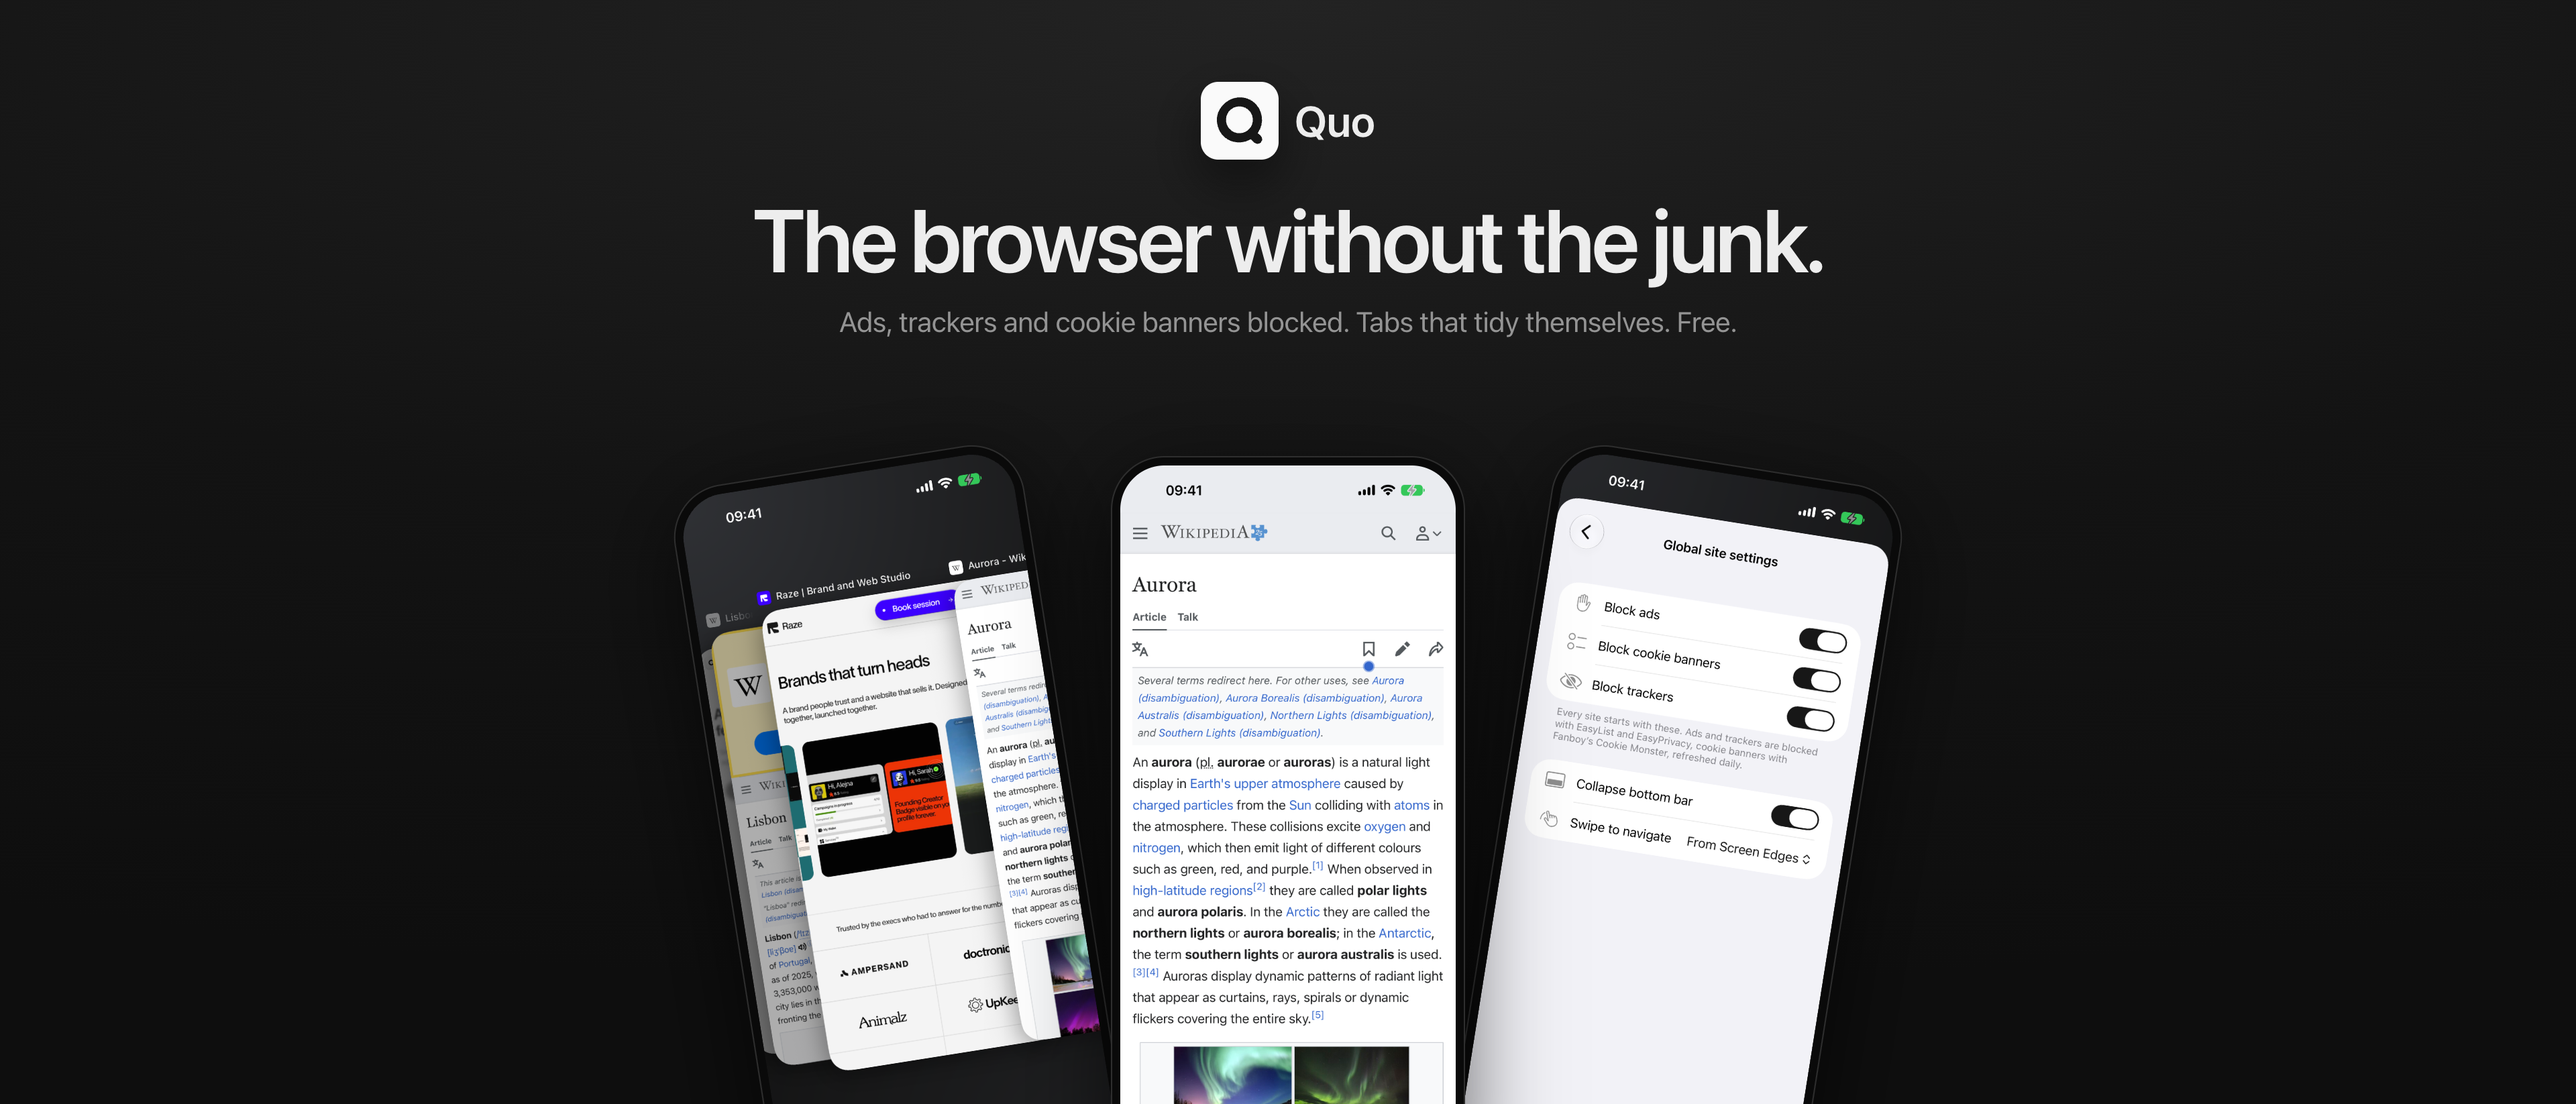
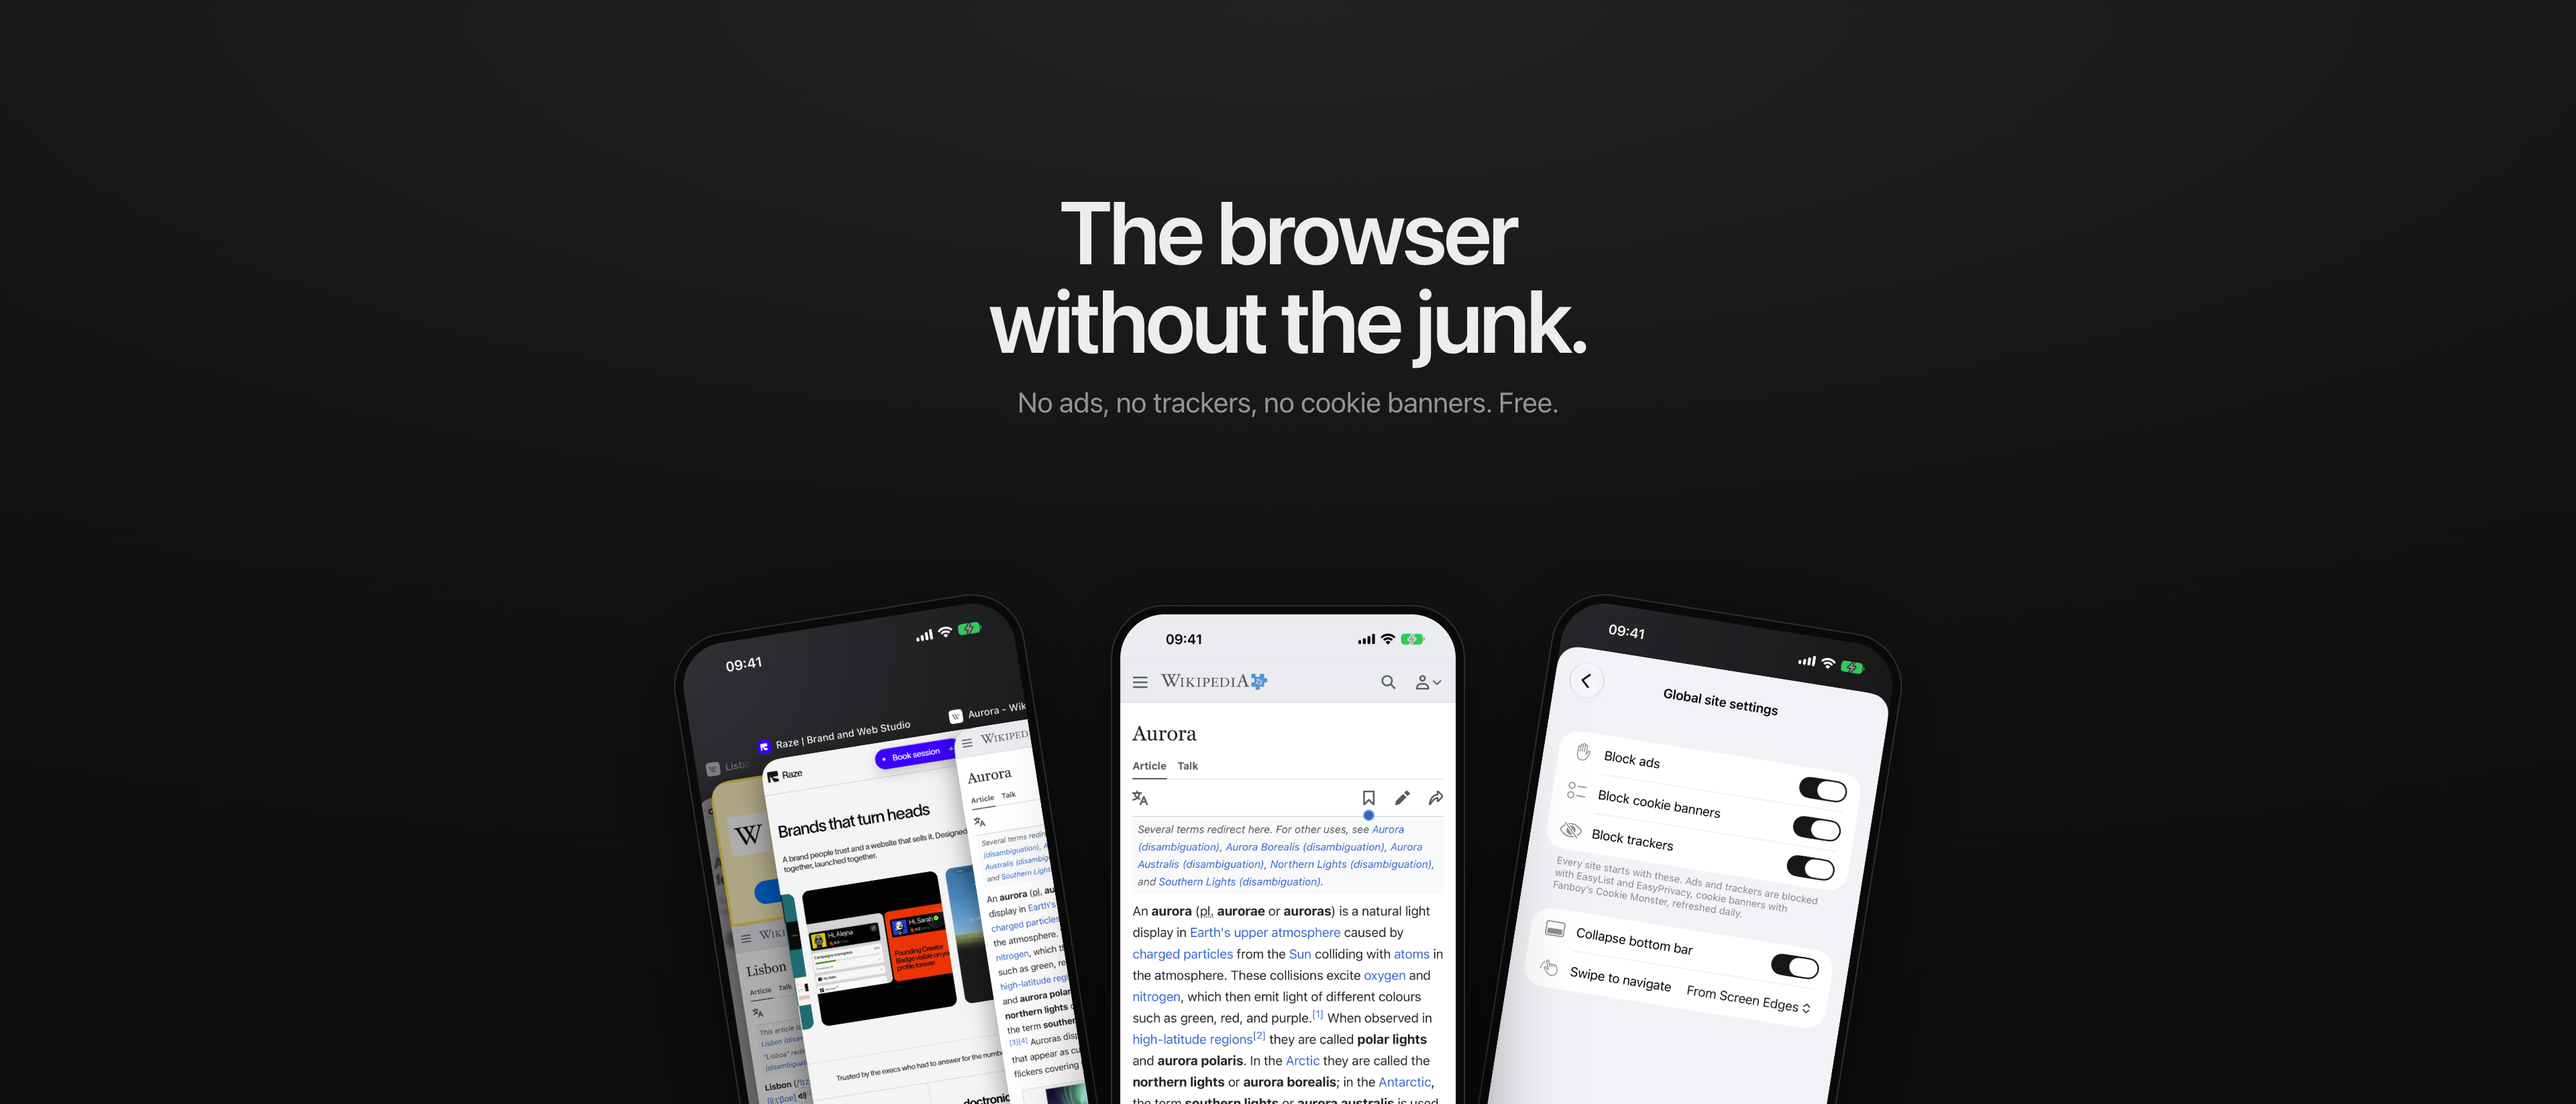
Quo for iPhone: App Store header kept inside the iPhone crop

Changed region(s): [[0.25, 0.4028, 0.75, 1.0], [0.2812, 0.1859, 0.7188, 0.3718], [0.4688, 0.062, 0.5312, 0.1549]]

diff --git a/iOS/AppStore/design/header.py b/iOS/AppStore/design/header.py
@@ -2,8 +2,8 @@
 
 Two sizes Apple takes: 5244 x 2950 (16:9) and 3840 x 1646 (21:9). Everything
 that matters sits in the middle, since Apple crops it differently by device
-and orientation: the Q tile and the line on top, three phones rising from the
-bottom edge. Drawn at half size and rendered at 2x by headless Chrome.
+and orientation: two short lines in the middle third, three phones rising from the
+bottom edge. No Q tile: the app icon sits right under the header anyway. Drawn at half size and rendered at 2x by headless Chrome.
 
     python3 header.py      # writes ../header/*.png
 """
@@ -32,7 +32,7 @@ PAGE = """<!doctype html><meta charset="utf-8">
           box-shadow: 0 {s1}px {s2}px rgba(0,0,0,0.5); }}
   .tile svg {{ width: 60%; height: 60%; }}
   .word {{ font-size: {word}px; font-weight: 600; letter-spacing: -0.01em; }}
-  h1 {{ margin-top: {h1m}px; font-size: {h1}px; line-height: 1; font-weight: 600; letter-spacing: -0.035em; text-align: center; }}
+  h1 {{ margin-top: 0; font-size: {h1}px; line-height: 1; font-weight: 600; letter-spacing: -0.035em; text-align: center; }}
   p {{ margin-top: {pm}px; font-size: {p}px; color: #949494; letter-spacing: -0.005em; text-align: center; }}
   .phones {{ position: absolute; left: 50%; bottom: {pb}px; width: 0; height: 0; }}
   .phone {{ position: absolute; bottom: 0; width: {pw}px; padding: {pp}px; border-radius: {pr}px; background: #0A0A0A;
@@ -44,9 +44,8 @@ PAGE = """<!doctype html><meta charset="utf-8">
 </style>
 <body>
   <div class="top">
-    <div class="brand"><div class="tile">{q}</div><div class="word">Quo</div></div>
-    <h1>The browser without the junk.</h1>
-    <p>Ads, trackers and cookie banners blocked. Tabs that tidy themselves. Free.</p>
+    <h1>The browser<br>without the junk.</h1>
+    <p>No ads, no trackers, no cookie banners. Free.</p>
   </div>
   <div class="phones">
     <div class="phone l"><img src="{tabs}"></div>
@@ -61,9 +60,9 @@ def html(w, h):
     pw = round(470 * k)
     return PAGE.format(
         w=w, h=h, q=Q,
-        top=round(110 * k), gap=round(22 * k), tile=round(104 * k), tr=round(24 * k), word=round(58 * k),
+        top=round(250 * k), gap=round(22 * k), tile=round(104 * k), tr=round(24 * k), word=round(58 * k),
         h1m=round(46 * k), h1=round(118 * k), pm=round(28 * k), p=round(38 * k),
-        pb=round(-130 * k), pw=pw, pp=round(11 * k), pr=round(70 * k), ir=round(60 * k), rim=max(1, round(1.5 * k)),
+        pb=round(-330 * k), pw=pw, pp=round(11 * k), pr=round(70 * k), ir=round(60 * k), rim=max(1, round(1.5 * k)),
         s1=round(30 * k), s2=round(70 * k), s3=round(120 * k),
         lx=-pw // 2 - round(440 * k), cx=-pw // 2, rx=-pw // 2 + round(440 * k),
         tabs=(RAW / "tabs.png").as_uri(), page=(RAW / "page.png").as_uri(), block=(RAW / "blocking.png").as_uri(),
